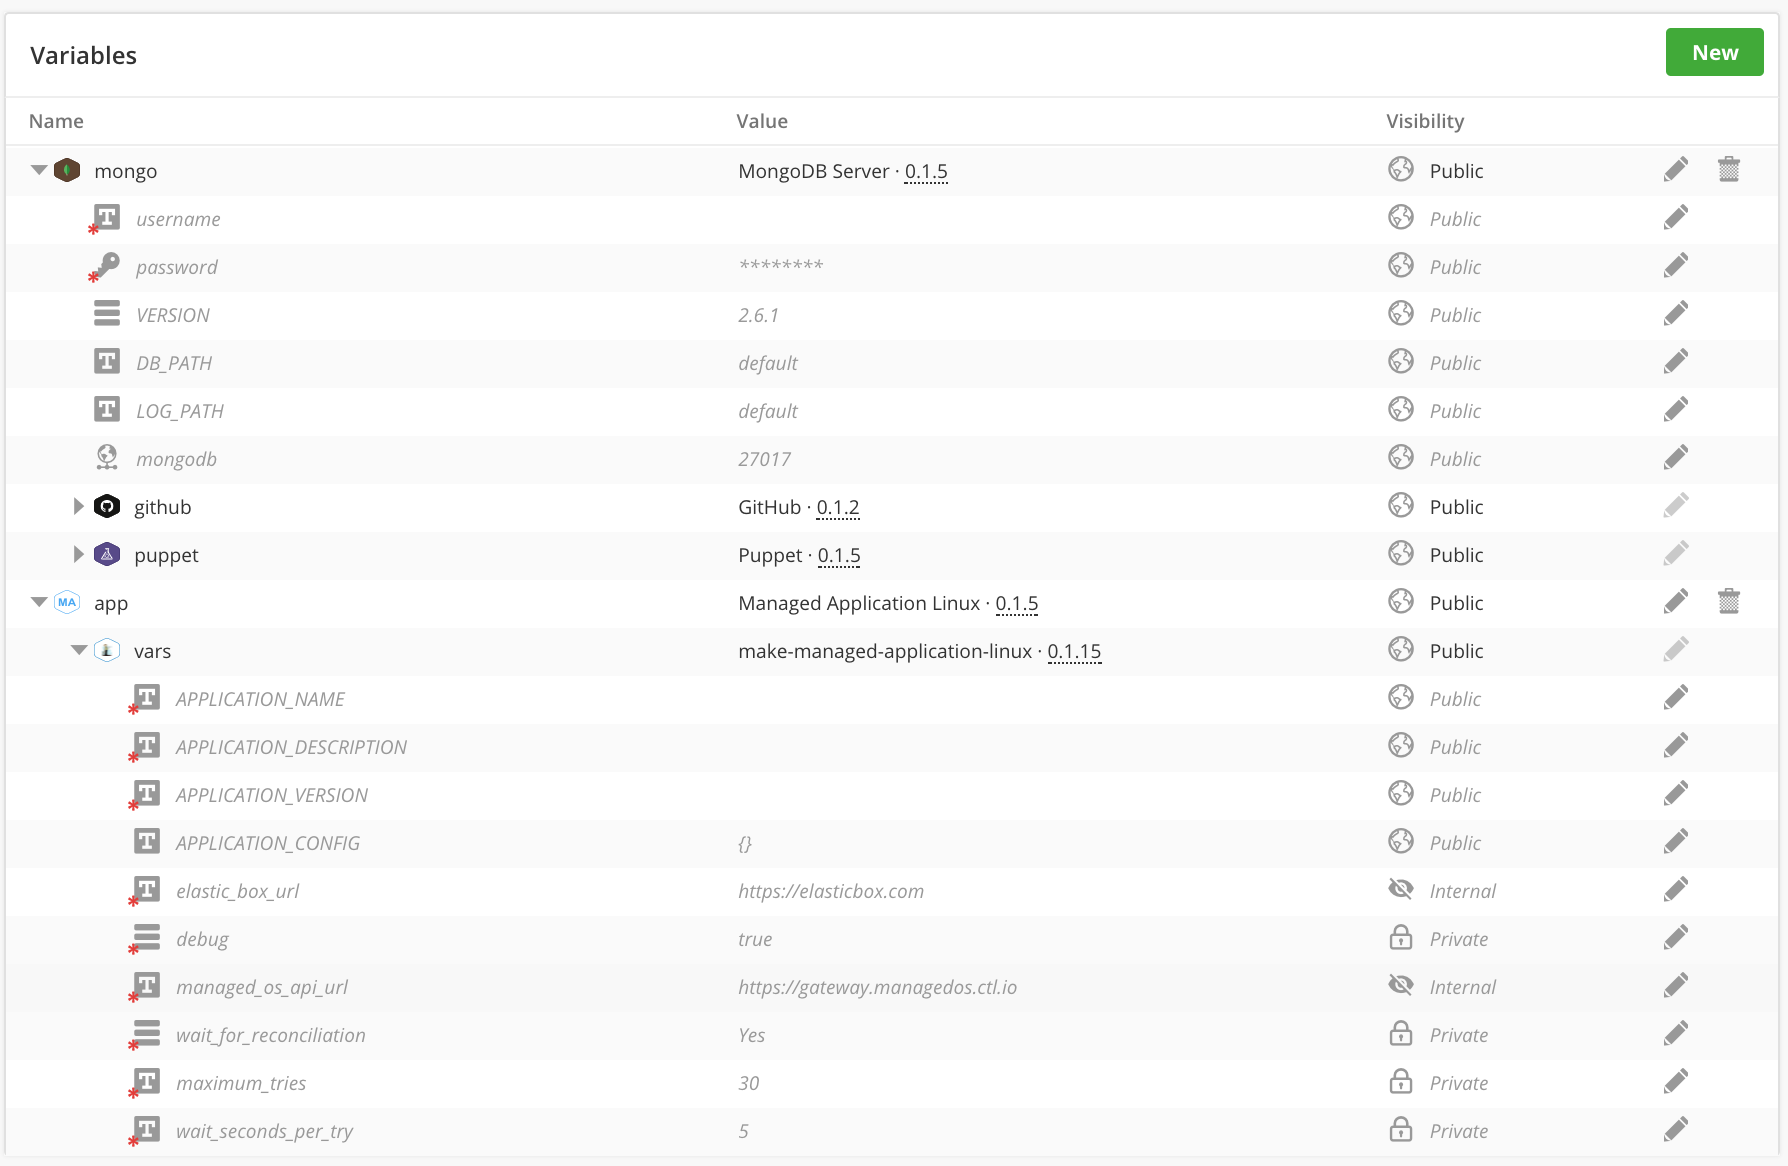
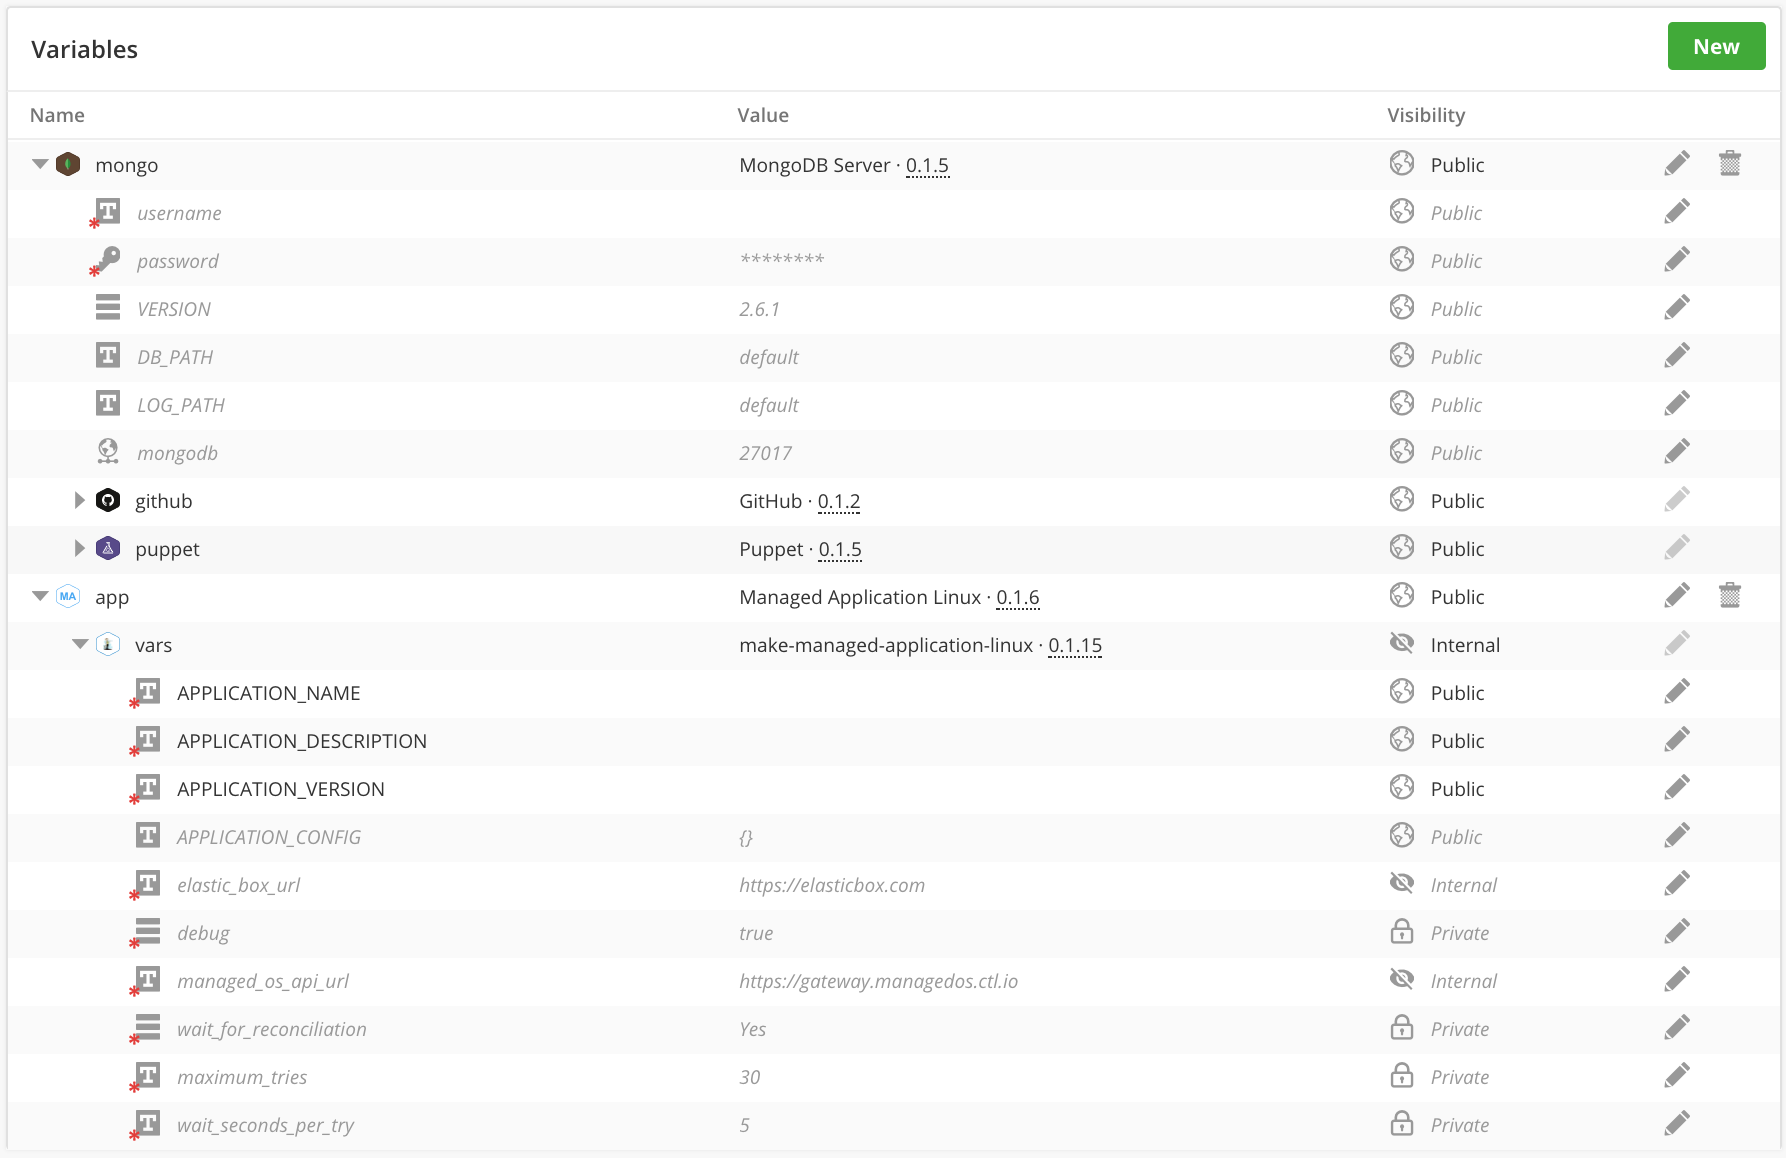
moved article to new location. added linux/windows script examples

diff --git a/Cloud Application Manager/Managed Services/getting-started-with-cam-create-managed-application.md b/Cloud Application Manager/Managed Services/getting-started-with-cam-create-managed-application.md
@@ -29,7 +29,7 @@ We suggest, from experience, to develop the installation and configuration of yo
 
 So, that is what we will do for simplicity of this article; I will use an existing script box available in CAM.  I will use the MongoDB Server script box.
 
-![cam-mongodb-scriptbox.png](../images/cloud-application-manager/cam-mongodb-scriptbox.png)
+![cam-mongodb-scriptbox.png](../../images/cloud-application-manager/cam-mongodb-scriptbox.png)
 
 Now that my work here is done, let's move on to the next step.
 
@@ -41,19 +41,19 @@ Let's head over to the Monitoring page (https://monitoring.cam.ctl.io/) where we
 
 Clicking on the **Policies** link on the left which should render something like the following.
 
-![msa-managed-mongodb-watcher-policies.png](../images/managed-services-anywhere/msa-managed-mongodb-watcher-policies.png)
+![msa-managed-mongodb-watcher-policies.png](../../images/managed-services-anywhere/msa-managed-mongodb-watcher-policies.png)
 
 Go ahead and click **New**, which will show a pop-up modal. Here, enter a name and description. Take note of the name as it will be used later.
 
-![msa-managed-mongodb-watcher-policies-new.png](../images/managed-services-anywhere/msa-managed-mongodb-watcher-policies-new.png)
+![msa-managed-mongodb-watcher-policies-new.png](../../images/managed-services-anywhere/msa-managed-mongodb-watcher-policies-new.png)
 
 Here's our new policy with no checks currently. I'll just be adding a simple check. Go ahead and create all of the necessary checks for your application. Reference Watcher documentation for further information.
 
-![msa-managed-mongodb-watcher-nochecks.png](../images/managed-services-anywhere/msa-managed-mongodb-watcher-nochecks.png)
+![msa-managed-mongodb-watcher-nochecks.png](../../images/managed-services-anywhere/msa-managed-mongodb-watcher-nochecks.png)
 
 So, I added a process check. With your necessary checks in place, you can move on to the next step requesting use of the Managed Application script box.
 
-![msa-managed-mongodb-watcher-policies-onechecks.png](../images/managed-services-anywhere/msa-managed-mongodb-watcher-onechecks.png)
+![msa-managed-mongodb-watcher-policies-onechecks.png](../../images/managed-services-anywhere/msa-managed-mongodb-watcher-onechecks.png)
 
 ### Request use of Managed Application Script Box
 
@@ -85,13 +85,13 @@ Expect to receive an email from Managed Services Anywhere informing you of this 
 
 Here we will create another script box that will act as a container for our application installation/deployment as well as the efforts of make managed.  Below is our new Managed MongoDB Server script box.
 
-![msa-managed-mongodb-scriptbox.png](../images/managed-services-anywhere/msa-managed-mongodb-scriptbox.png)
+![msa-managed-mongodb-scriptbox.png](../../images/managed-services-anywhere/msa-managed-mongodb-scriptbox.png)
 
 I have gone ahead and added the Managed Application script box as well as the MongoDB Server script box as variables.
 
 **Note: Select the appropriate platform (windows/linux) implementation of the Managed Application script box for your needs.**
 
-![msa-managed-mongodb-scriptbox-vars.png](../images/managed-services-anywhere/msa-managed-mongodb-scriptbox-vars.png)
+![msa-managed-mongodb-scriptbox-vars.png](../../images/managed-services-anywhere/msa-managed-mongodb-scriptbox-vars.png)
 
 ### Pass Application Values to Managed Application Box
 
@@ -105,30 +105,53 @@ So, with all of that said, we will actually be using any lifecycle event prior t
 
 Below is an expanded view of the boxes included in this script box and their respective variables for reference.
 
-![msa-managed-mongodb-scriptbox-expanded.png](../images/managed-services-anywhere/msa-managed-mongodb-scriptbox-expanded.png)
+![msa-managed-mongodb-scriptbox-expanded.png](../../images/managed-services-anywhere/msa-managed-mongodb-scriptbox-expanded.png)
+
+Since the **APPLICATION_NAME**, **APPLICATION_DESCRIPTION**, and **APPLICATION_VERSION** are required values in the Managed Application script box, you will need to override these values in this new managed script box.  Since the underlying make managed application script box is **internal**, these values won't be visible at deploy time.  So, they will require a default value as shown in the example below.  You are then welcome to expose your own variables and custom scripts to override these values during the execution of a deployment.
+
+![msa-managed-mongodb-scriptbox-vars-defaults.png](../../images/managed-services-anywhere/msa-managed-mongodb-scriptbox-vars-defaults.png)
 
 Here is a figure of the partially expanded events section. Note that **configure** is the only populated event for the parent script box, as it is acting as a kind of mapping between the application script box and the Managed Application script box.
 
-![msa-managed-mongodb-events-expanded.png](../images/managed-services-anywhere/msa-managed-mongodb-events-expanded.png)
+![msa-managed-mongodb-events-expanded.png](../../images/managed-services-anywhere/msa-managed-mongodb-events-expanded.png)
 
 And you can see that I have populated the **configure** event with some code.  Below are the contents of that lifecycle event:
 
+> Bash Example:
+
 ```shell
+username="{{ mongo.username }}"
+password="{{ mongo.password }}"
+log_path="{{ mongo.LOG_PATH }}"
+port="{{ mongo.mongodb }}"
+db_path="{{ mongo.DB_PATH }}"
+
+config="{\"username\": \"$username\", \"password\": \"$password\", \"db_path\": \"$db_path\", \"logs\": \"$log_path\", \"db_port\": \"$port\"}"
+
+elasticbox set app.vars.APPLICATION_DESCRIPTION "My managed cross-platform document-oriented database"
+elasticbox set app.vars.APPLICATION_VERSION "{{ mongo.VERSION }}"
+elasticbox set app.vars.APPLICATION_CONFIG "$config"
+```
+
+> Powershell Example (if this were windows):
+
+```powershell
 $username = "{{ mongo.username }}"
 $password = "{{ mongo.password }}"
 $log_path = "{{ mongo.LOG_PATH }}"
-$port     = "{{ mongo.mongodb }}"
-$db_path  = "{{ mongo.DB_PATH }}"
+$port = "{{ mongo.mongodb }}"
+$db_path = "{{ mongo.DB_PATH }}"
 
 $config = "{'username': '$username', 'password': '$password', 'db_path': '$db_path', 'logs': '$log_path', 'db_port': '$port'}"
 
-elasticbox set app.vars.APPLICATION_NAME "mongodb"
 elasticbox set app.vars.APPLICATION_DESCRIPTION "My managed cross-platform document-oriented database"
 elasticbox set app.vars.APPLICATION_VERSION "{{ mongo.VERSION }}"
 elasticbox set app.vars.APPLICATION_CONFIG $config
 ```
 
-The above shell script is essentially mapping values from the MongoDB Server script box installation over to the Managed Application script box.  The **APPLICATION_CONFIG** is intended for any additional metadata you wish to provide about the application that would be valuable for its ongoing support.
+The above scripts are essentially mapping values from the MongoDB Server script box installation over to the Managed Application script box.  This is also where you might use your custom variables for overriding the default values.
+
+The **APPLICATION_CONFIG** is intended for any additional metadata you wish to provide about the application that would be valuable for its ongoing support.
 
 Also note the **APPLICATION_NAME**; this value is important as it will be used to map this application with its corresponding monitoring policy in the next step.
 
